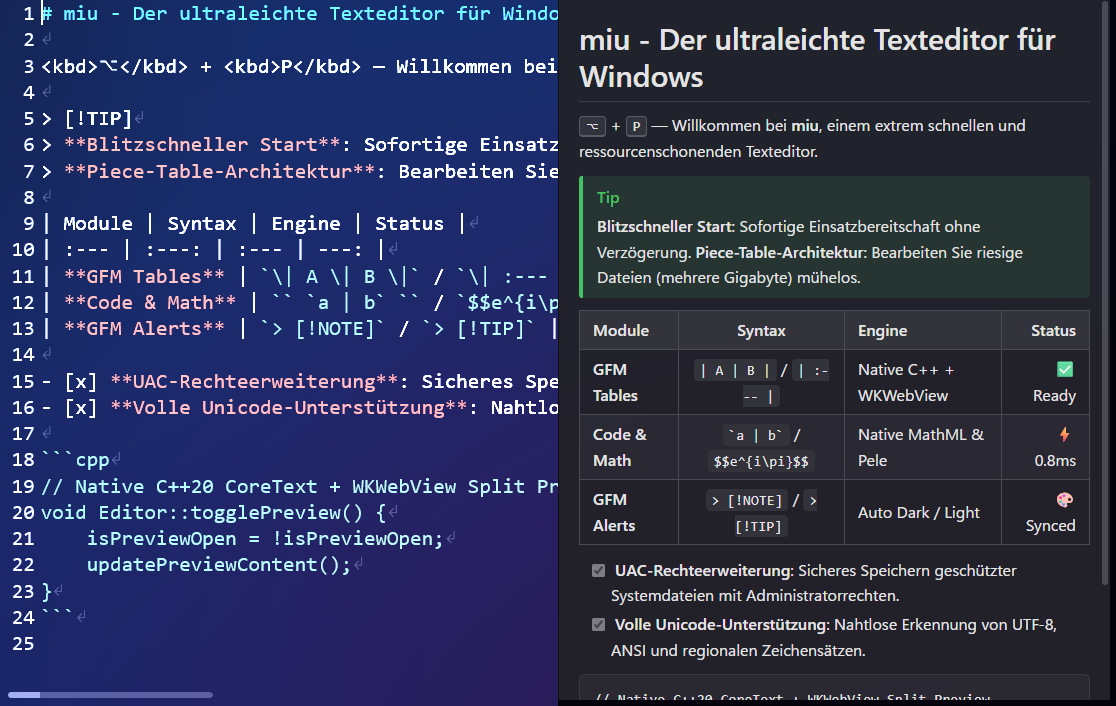
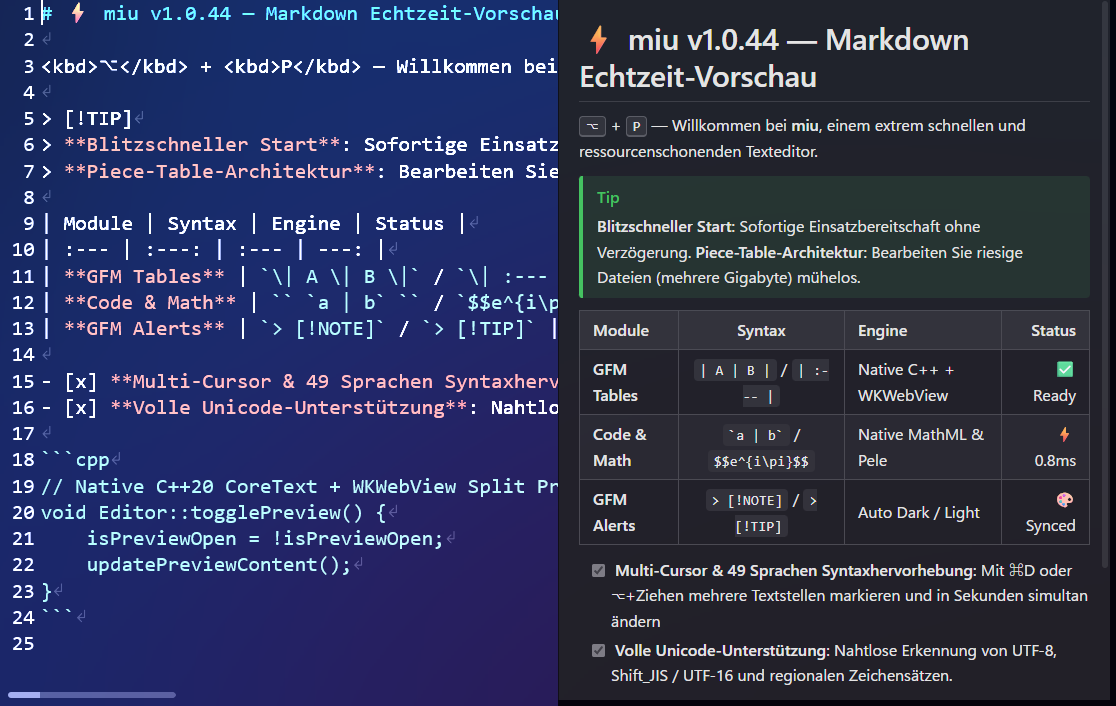
Fix blank Markdown preview assets across 13 locales and add iPhone Duo captures & operation guide

diff --git a/scripts/appstore_screenshots_sync.py b/scripts/appstore_screenshots_sync.py
@@ -463,9 +463,13 @@ def apply_frosted_glass_panel(panel_img, bg_crop, is_dark, has_right_preview=Fal
     bg_arr = np.asarray(acrylic_bg, dtype=np.float32)
 
     h, w, _ = arr.shape
-    sample_y = min(h - 1, max(0, h - 24 if not is_vertical_split else (h // 2 - 20)))
-    sample_x = min(w - 1, 180)
-    sample_bg = arr[sample_y, sample_x].copy()
+    ed_h = (h // 2) if (has_right_preview and is_vertical_split) else h
+    ed_w = (w // 2) if (has_right_preview and not is_vertical_split) else w
+    patch = arr[max(0, ed_h - 80):max(10, ed_h - 6), min(60, ed_w - 10):max(70, ed_w - 20)]
+    if patch.size > 0:
+        sample_bg = np.percentile(patch, 20 if is_dark else 80, axis=(0, 1)).astype(np.float32)
+    else:
+        sample_bg = arr[min(h - 1, ed_h - 10), min(w - 1, 180)].copy()
 
     glass_mask = np.ones((h, w, 1), dtype=np.float32)
     if has_right_preview:
@@ -654,34 +658,83 @@ def draw_ios_find_replace_bar(bar_w, ui_strings, font_bold_path, font_reg_path):
 
 
 def draw_ios_accessory_bar(bar_w, is_dark, ui_strings, font_bold_path, active_preview=False):
-    """Render the localized iOS quick-action toolbar from ViewController.mm."""
-    bar_h = 44
-    bg_col = (24, 28, 38, 250) if is_dark else (241, 245, 249, 250)
-    bar = Image.new("RGBA", (bar_w, bar_h), bg_col)
+    """Render the localized iOS/Android categorized floating pill toolbar (File | Edit | Find | View | Undo | Redo | Tab | Dismiss)."""
+    bar_h = 48
+    bar = Image.new("RGBA", (bar_w, bar_h), (0, 0, 0, 0))
     draw = ImageDraw.Draw(bar)
-    sep_col = (51, 65, 85, 255) if is_dark else (203, 213, 225, 255)
-    draw.line([(0, 0), (bar_w, 0)], fill=sep_col, width=1)
+
+    # Outer floating capsule container
+    pad_x = 12
+    pill_y1, pill_y2 = 4, bar_h - 4
+    pill_bg = (26, 31, 45, 244) if is_dark else (245, 247, 252, 246)
+    pill_bd = (71, 85, 105, 190) if is_dark else (203, 213, 225, 220)
+    draw.rounded_rectangle([pad_x, pill_y1, bar_w - pad_x, pill_y2], radius=20, fill=pill_bg, outline=pill_bd, width=1)
 
     f_btn = ImageFont.truetype(font_bold_path, 13)
-    keys = ["New", "Open", "Save", "Find", "Replace", "Live Preview", "Word Wrap", "Toggle Comment", "Tab", "Done"]
-    px = 10
-    for k in keys:
+    cat_keys = ["File", "Edit", "Find", "View"]
+    px = pad_x + 10
+    for k in cat_keys:
         lbl = ui_strings.get(k, k)
         bb = draw.textbbox((0, 0), lbl, font=f_btn)
-        bw = (bb[2] - bb[0]) + 20
-        if px + bw > bar_w - 8:
+        tw = bb[2] - bb[0]
+        bw = tw + 30
+        if px + bw > bar_w - pad_x - 126:
             break
-        is_hi = (k == "Live Preview" and active_preview)
+        is_hi = (k == "View" and active_preview)
         if is_hi:
-            btn_bg = (14, 165, 233, 55) if is_dark else (0, 122, 255, 28)
+            btn_bg = (14, 165, 233, 62) if is_dark else (0, 122, 255, 32)
             btn_fg = (56, 189, 248, 255) if is_dark else (0, 102, 225, 255)
-            draw.rounded_rectangle([px, 7, px + bw, bar_h - 7], radius=6, fill=btn_bg, outline=btn_fg, width=1)
+            draw.rounded_rectangle([px, 9, px + bw, bar_h - 9], radius=14, fill=btn_bg, outline=btn_fg, width=1)
         else:
-            btn_bg = (255, 255, 255, 22) if is_dark else (15, 23, 42, 12)
+            btn_bg = (255, 255, 255, 24) if is_dark else (15, 23, 42, 14)
             btn_fg = (226, 232, 240, 255) if is_dark else (30, 41, 59, 255)
-            draw.rounded_rectangle([px, 7, px + bw, bar_h - 7], radius=6, fill=btn_bg)
-        draw.text((px + 10, 13), lbl, font=f_btn, fill=btn_fg)
+            draw.rounded_rectangle([px, 9, px + bw, bar_h - 9], radius=14, fill=btn_bg)
+        draw.text((px + 10, 15), lbl, font=f_btn, fill=btn_fg)
+        # Vector downward chevron
+        cx = px + 10 + tw + 9
+        cy = bar_h // 2 + 1
+        draw.line([(cx - 3, cy - 2), (cx, cy + 2), (cx + 3, cy - 2)], fill=btn_fg, width=2)
         px += bw + 6
+
+    # Vertical divider before quick-action buttons
+    sep_col = (71, 85, 105, 180) if is_dark else (203, 213, 225, 210)
+    if px + 110 < bar_w - pad_x:
+        draw.line([(px + 2, 13), (px + 2, bar_h - 13)], fill=sep_col, width=1)
+        px += 10
+
+    # Vector Undo & Redo buttons + Tab pill
+    btn_bg = (255, 255, 255, 20) if is_dark else (15, 23, 42, 12)
+    btn_fg = (226, 232, 240, 255) if is_dark else (30, 41, 59, 255)
+    for is_redo in (False, True):
+        bw = 32
+        if px + bw > bar_w - pad_x - 42:
+            break
+        draw.rounded_rectangle([px, 9, px + bw, bar_h - 9], radius=14, fill=btn_bg)
+        cx = px + bw // 2
+        cy = bar_h // 2
+        draw.arc([cx - 6, cy - 5, cx + 6, cy + 7], start=200 if not is_redo else 250, end=70 if not is_redo else 340, fill=btn_fg, width=2)
+        if not is_redo:
+            draw.line([(cx - 6, cy - 2), (cx - 2, cy - 5)], fill=btn_fg, width=2)
+            draw.line([(cx - 6, cy - 2), (cx - 2, cy + 1)], fill=btn_fg, width=2)
+        else:
+            draw.line([(cx + 6, cy - 2), (cx + 2, cy - 5)], fill=btn_fg, width=2)
+            draw.line([(cx + 6, cy - 2), (cx + 2, cy + 1)], fill=btn_fg, width=2)
+        px += bw + 5
+
+    tab_lbl = ui_strings.get("Tab", "Tab")
+    bb = draw.textbbox((0, 0), tab_lbl, font=f_btn)
+    tw = bb[2] - bb[0]
+    bw = max(36, tw + 18)
+    if px + bw <= bar_w - pad_x - 42:
+        draw.rounded_rectangle([px, 9, px + bw, bar_h - 9], radius=14, fill=btn_bg)
+        draw.text((px + (bw - tw) // 2, 15), tab_lbl, font=f_btn, fill=btn_fg)
+
+    # Right-pinned keyboard dismiss button
+    kb_x = bar_w - pad_x - 38
+    kb_bg = (255, 255, 255, 24) if is_dark else (15, 23, 42, 14)
+    kb_fg = (180, 194, 214, 255) if is_dark else (71, 85, 105, 255)
+    draw.rounded_rectangle([kb_x, 9, kb_x + 30, bar_h - 9], radius=14, fill=kb_bg)
+    draw.line([(kb_x + 10, 21), (kb_x + 15, 26), (kb_x + 20, 21)], fill=kb_fg, width=2)
 
     return bar
 
@@ -1248,6 +1301,224 @@ def render_ipad_slide(spec, font_bold_path, font_reg_path, target_size=(2732, 20
 
 
 # ============================================================================
+# Compositor 4: iPhone Duo Unfolded Dual-Screen Book Mode (APP_IPHONE_DUO)
+# ============================================================================
+
+IPHONE_DUO_BG_CACHE = {}
+
+def draw_ios_category_popup_menu(ui_strings, is_dark, font_bold_path, font_reg_path):
+    """Render an authentic iOS UIMenu popup above the 'View' category pill."""
+    mw, mh = 224, 184
+    menu = Image.new("RGBA", (mw, mh), (0, 0, 0, 0))
+    draw = ImageDraw.Draw(menu)
+
+    bg_col = (34, 41, 58, 246) if is_dark else (250, 252, 255, 248)
+    bd_col = (100, 116, 139, 180) if is_dark else (203, 213, 225, 220)
+    draw.rounded_rectangle([0, 0, mw - 1, mh - 1], radius=14, fill=bg_col, outline=bd_col, width=1)
+
+    f_item = ImageFont.truetype(font_reg_path, 12)
+    f_bold = ImageFont.truetype(font_bold_path, 12)
+    fg_col = (241, 245, 249, 255) if is_dark else (15, 23, 42, 255)
+    acc_col = (56, 189, 248, 255) if is_dark else (0, 122, 255, 255)
+    sep_col = (71, 85, 105, 140) if is_dark else (226, 232, 240, 220)
+
+    items = [
+        (ui_strings.get("Live Preview", "Live Preview"), True, "Opt+P"),
+        (ui_strings.get("Word Wrap", "Word Wrap"), True, "Opt+Z"),
+        (ui_strings.get("Show Line Numbers", "Line Numbers"), True, "#123"),
+        (ui_strings.get("Status Bar", "Status Bar"), True, "Ln/Col"),
+        (ui_strings.get("Zoom In", "Zoom In") + " / " + ui_strings.get("Zoom Out", "Zoom Out"), False, "A+ / A-"),
+    ]
+    ry = 8
+    for idx, (label, checked, icon_str) in enumerate(items):
+        short_lbl = label if len(label) <= 20 else label[:18] + "…"
+        col = acc_col if idx == 0 else fg_col
+        if checked:
+            draw.line([(12, ry + 14), (16, ry + 18), (22, ry + 10)], fill=acc_col, width=2)
+        draw.text((30, ry + 6), short_lbl, font=f_bold if idx == 0 else f_item, fill=col)
+        ib = draw.textbbox((0, 0), icon_str, font=f_item)
+        draw.text((mw - 12 - (ib[2] - ib[0]), ry + 6), icon_str, font=f_item, fill=(148, 163, 184, 230) if idx > 0 else acc_col)
+        ry += 34
+        if idx < len(items) - 1:
+            draw.line([(12, ry - 2), (mw - 12, ry - 2)], fill=sep_col, width=1)
+    return menu
+
+
+def render_iphone_duo_slide(spec, font_bold_path, font_reg_path, target_size=(2796, 1864)):
+    """Render an iPhone Duo unfolded dual-screen book-posture screenshot with 50:50 center-hinge split."""
+    W, H = 1398, 932
+    pal_key = (id(spec["palette"]), W, H)
+    if pal_key not in IPHONE_DUO_BG_CACHE:
+        IPHONE_DUO_BG_CACHE[pal_key] = make_mesh_background(W, H, spec["palette"])
+    bg = IPHONE_DUO_BG_CACHE[pal_key]
+    is_dark = spec["is_dark"]
+
+    canvas = bg.convert("RGBA")
+    cdraw = ImageDraw.Draw(canvas)
+
+    # Top marketing header
+    f_badge = ImageFont.truetype(font_bold_path, 14)
+    badge_txt = "iPhone Duo  ·  " + spec["badge"]
+    bb = cdraw.textbbox((0, 0), badge_txt, font=f_badge)
+    bw = (bb[2] - bb[0]) + 32
+    bh = 32
+    bx = (W - bw) // 2
+    ty = 22
+    if is_dark:
+        cdraw.rounded_rectangle([bx, ty, bx + bw, ty + bh], radius=16, fill=(56, 189, 248, 45), outline=(56, 189, 248, 165), width=2)
+        cdraw.text((bx + 16, ty + 6), badge_txt, font=f_badge, fill=(125, 211, 252, 255))
+    else:
+        cdraw.rounded_rectangle([bx, ty, bx + bw, ty + bh], radius=16, fill=(255, 255, 255, 185), outline=(29, 78, 216, 130), width=2)
+        cdraw.text((bx + 16, ty + 6), badge_txt, font=f_badge, fill=(23, 58, 148, 255))
+
+    is_cjk = any(ord(ch) > 0x2E80 for line in spec["title"] for ch in line)
+    sep = "" if is_cjk else " "
+    full_title = sep.join(spec["title"])
+    max_tw = W - 120
+    title_sz = 38
+    while title_sz > 22:
+        f_title = ImageFont.truetype(font_bold_path, title_sz)
+        tb = cdraw.textbbox((0, 0), full_title, font=f_title)
+        if (tb[2] - tb[0]) <= max_tw:
+            break
+        title_sz -= 2
+
+    ty += 42
+    title_col = (255, 255, 255, 255) if is_dark else (18, 42, 92, 255)
+    tb = cdraw.textbbox((0, 0), full_title, font=f_title)
+    cdraw.text(((W - (tb[2] - tb[0])) // 2, ty), full_title, font=f_title, fill=title_col)
+
+    ty += int(title_sz * 1.34)
+    sub_col = (203, 213, 225, 245) if is_dark else (45, 72, 122, 240)
+    f_sub = ImageFont.truetype(font_reg_path, 16)
+    for sline in spec["sub"]:
+        sb = cdraw.textbbox((0, 0), sline, font=f_sub)
+        cdraw.text(((W - (sb[2] - sb[0])) // 2, ty), sline, font=f_sub, fill=sub_col)
+        ty += 24
+
+    # iPhone Duo Unfolded Dual-Screen Chassis Geometry
+    dev_w, dev_h = 1172, 704
+    bezel = 14
+    hinge_w = 16
+    scr_w, scr_h = dev_w - bezel * 2, dev_h - bezel * 2  # 1144 x 676
+    pane_w = (scr_w - hinge_w) // 2                      # 564px per screen
+    dx = (W - dev_w) // 2
+    dy = 196
+
+    # Drop shadow under both halves of the unfolded device
+    shadow = Image.new("RGBA", (W, H), (0, 0, 0, 0))
+    ImageDraw.Draw(shadow).rounded_rectangle(
+        [dx - 8, dy + 14, dx + dev_w + 8, dy + dev_h + 24],
+        radius=42,
+        fill=(4, 8, 22, 155 if is_dark else 90),
+    )
+    shadow = shadow.filter(ImageFilter.GaussianBlur(radius=24))
+    canvas = Image.alpha_composite(canvas, shadow)
+    cdraw = ImageDraw.Draw(canvas)
+
+    # Left & Right Titanium book-mode chassis halves + center hinge spine
+    half_dev_w = (dev_w - 4) // 2
+    cdraw.rounded_rectangle(
+        [dx, dy, dx + half_dev_w + 10, dy + dev_h - 1],
+        radius=38,
+        fill=(28, 33, 46, 255),
+        outline=(148, 163, 184, 155),
+        width=3,
+    )
+    cdraw.rounded_rectangle(
+        [dx + dev_w - half_dev_w - 10, dy, dx + dev_w - 1, dy + dev_h - 1],
+        radius=38,
+        fill=(28, 33, 46, 255),
+        outline=(148, 163, 184, 155),
+        width=3,
+    )
+    # Center mechanical hinge caps (top & bottom)
+    hx_center = dx + dev_w // 2
+    cdraw.rounded_rectangle([hx_center - 10, dy - 2, hx_center + 10, dy + 16], radius=4, fill=(71, 85, 105, 255), outline=(148, 163, 184, 180), width=1)
+    cdraw.rounded_rectangle([hx_center - 10, dy + dev_h - 16, hx_center + 10, dy + dev_h + 2], radius=4, fill=(71, 85, 105, 255), outline=(148, 163, 184, 180), width=1)
+
+    screen = Image.new("RGBA", (scr_w, scr_h), (16, 20, 34, 255) if is_dark else (248, 251, 255, 255))
+    sdraw = ImageDraw.Draw(screen)
+
+    # Top status + document bar across dual screens (40px)
+    hdr_h = 40
+    hdr_col = (18, 23, 38, 255) if is_dark else (241, 245, 251, 255)
+    sdraw.rectangle([0, 0, scr_w, hdr_h], fill=hdr_col)
+
+    # Compact Dynamic Island on left display top center
+    di_w, di_h = 96, 22
+    di_x = (pane_w - di_w) // 2
+    sdraw.rounded_rectangle([di_x, 7, di_x + di_w, 7 + di_h], radius=11, fill=(8, 10, 16, 255))
+
+    f_stat = ImageFont.truetype(font_bold_path, 13)
+    fg_stat = (226, 232, 240, 255) if is_dark else (30, 41, 59, 255)
+    sdraw.text((22, 11), "9:41  iPhone Duo", font=f_stat, fill=fg_stat)
+    # Right display status header: document title + 50:50 split badge + battery
+    right_x0 = pane_w + hinge_w
+    sdraw.text((right_x0 + 18, 11), spec["doc_title"], font=f_stat, fill=fg_stat)
+    bx_stat = scr_w - 52
+    sdraw.rounded_rectangle([bx_stat, 13, bx_stat + 24, 25], radius=3, outline=fg_stat, width=2)
+    sdraw.rectangle([bx_stat + 3, 16, bx_stat + 19, 22], fill=fg_stat)
+
+    foot_h = 52
+    body_h = scr_h - hdr_h - foot_h  # 584px
+
+    panel_raw = Image.open(spec["panel_path"]).convert("RGB")
+    panel_raw = panel_raw.crop((0, 0, panel_raw.width, panel_raw.height - 16))
+    panel_resized = panel_raw.resize((scr_w, body_h), Image.Resampling.LANCZOS)
+    bg_crop = bg.crop((dx + bezel, dy + bezel + hdr_h, dx + bezel + scr_w, dy + bezel + hdr_h + body_h))
+    frosted_body = apply_frosted_glass_panel(panel_resized, bg_crop, is_dark, spec["has_preview"], is_vertical_split=False)
+    screen.paste(frosted_body.convert("RGBA"), (0, hdr_h))
+
+    if spec["overlay"] == "regex":
+        find_bar = draw_ios_find_replace_bar(pane_w, spec["ui_strings"], font_bold_path, font_reg_path)
+        screen.alpha_composite(find_bar, (right_x0, hdr_h + body_h - find_bar.height))
+
+    # Draw Categorized Floating Pill Toolbar on the Left Screen (Editor pane)
+    acc_bar = draw_ios_accessory_bar(pane_w, is_dark, spec["ui_strings"], font_bold_path, active_preview=spec["has_preview"])
+    screen.alpha_composite(acc_bar, (0, hdr_h + body_h))
+
+    # On Slide 1 (Markdown Live Preview), also showcase the View UIMenu popup above the pill toolbar
+    if spec["idx"] == 1:
+        popup = draw_ios_category_popup_menu(spec["ui_strings"], is_dark, font_bold_path, font_reg_path)
+        screen.alpha_composite(popup, (152, hdr_h + body_h - popup.height - 4))
+
+    # Right screen bottom status / home indicator bar
+    sdraw.rectangle([right_x0, hdr_h + body_h, scr_w, scr_h], fill=hdr_col)
+    f_status = ImageFont.truetype(font_reg_path, 12)
+    st_col = (148, 163, 184, 235) if is_dark else (71, 85, 105, 220)
+    status_txt = spec.get("status_right", "Ln 1, Col 1    UTF-8    LF    100%")
+    sdraw.text((right_x0 + 20, hdr_h + body_h + 10), status_txt, font=f_status, fill=st_col)
+
+    # Home indicators on both left and right screens
+    hi_col = (203, 213, 225, 190) if is_dark else (71, 85, 105, 175)
+    sdraw.rounded_rectangle([(pane_w - 130) // 2, scr_h - 6, (pane_w + 130) // 2, scr_h - 2], radius=2, fill=hi_col)
+    sdraw.rounded_rectangle([right_x0 + (pane_w - 130) // 2, scr_h - 6, right_x0 + (pane_w + 130) // 2, scr_h - 2], radius=2, fill=hi_col)
+
+    # Draw the Center Hinge Fold Seam & MiuIOSPreviewSplitterView (50:50 snapped)
+    hx1, hx2 = pane_w, pane_w + hinge_w
+    sdraw.rectangle([hx1, 0, hx2, scr_h], fill=(10, 13, 22, 255))
+    sdraw.line([(hx1, 0), (hx1, scr_h)], fill=(71, 85, 105, 180), width=1)
+    sdraw.line([(hx2, 0), (hx2, scr_h)], fill=(71, 85, 105, 180), width=1)
+    # Center splitter grabber pill (MiuIOSPreviewSplitterView)
+    sp_cy = hdr_h + body_h // 2
+    sdraw.rounded_rectangle([hx1 + 5, sp_cy - 28, hx2 - 5, sp_cy + 28], radius=3, fill=(56, 189, 248, 210) if spec["has_preview"] else (148, 163, 184, 180))
+
+    scr_mask = Image.new("L", (scr_w, scr_h), 0)
+    mdraw = ImageDraw.Draw(scr_mask)
+    mdraw.rounded_rectangle([0, 0, pane_w - 1, scr_h - 1], radius=26, fill=255)
+    mdraw.rounded_rectangle([right_x0, 0, scr_w - 1, scr_h - 1], radius=26, fill=255)
+    mdraw.rectangle([pane_w - 6, 14, right_x0 + 6, scr_h - 14], fill=255)
+    screen.putalpha(scr_mask)
+    canvas.alpha_composite(screen, (dx + bezel, dy + bezel))
+
+    out_rgb = canvas.convert("RGB")
+    if out_rgb.size != target_size:
+        out_rgb = out_rgb.resize(target_size, Image.Resampling.LANCZOS)
+    return out_rgb
+
+
+# ============================================================================
 # Batch Renderer for All Needed Display Types & Prefixes
 # ============================================================================
 
@@ -1255,6 +1526,7 @@ DISPLAY_TYPE_RENDERERS = {
     "APP_DESKTOP": lambda spec, fb, fr: render_macos_slide(spec, fb, fr),
     "APP_IPHONE_67": lambda spec, fb, fr: render_iphone_slide(spec, fb, fr, (1290, 2796)),
     "APP_IPHONE_65": lambda spec, fb, fr: render_iphone_slide(spec, fb, fr, (1284, 2778)),
+    "APP_IPHONE_DUO": lambda spec, fb, fr: render_iphone_duo_slide(spec, fb, fr, (2796, 1864)),
     "APP_IPAD_PRO_3GEN_129": lambda spec, fb, fr: render_ipad_slide(spec, fb, fr, (2732, 2048)),
     "APP_IPAD_PRO_129": lambda spec, fb, fr: render_ipad_slide(spec, fb, fr, (2732, 2048)),
 }
@@ -1270,9 +1542,8 @@ def render_prefix_display_type(prefix, display_type, out_dir):
     for spec in specs:
         fname = f"miu_{prefix}_{display_type}_{spec['idx']}.png"
         fpath = os.path.join(out_dir, fname)
-        if not os.path.exists(fpath):
-            img = renderer(spec, fb, fr)
-            img.save(fpath, "PNG", optimize=False)
+        img = renderer(spec, fb, fr)
+        img.save(fpath, "PNG", optimize=False)
         paths.append(fpath)
     return paths
 
@@ -1558,7 +1829,7 @@ def main():
     if args.local_test:
         print(f"=== Local Test Mode: Rendering ja & en into {args.out_dir} ===")
         for prefix in ("ja", "en"):
-            for dt in ("APP_DESKTOP", "APP_IPHONE_67", "APP_IPAD_PRO_3GEN_129"):
+            for dt in ("APP_DESKTOP", "APP_IPHONE_67", "APP_IPHONE_DUO", "APP_IPAD_PRO_3GEN_129"):
                 t0 = time.time()
                 paths = render_prefix_display_type(prefix, dt, args.out_dir)
                 print(f"  [OK] {prefix} / {dt}: {len(paths)} files in {time.time() - t0:.2f}s")

diff --git a/scripts/store_screenshots.py b/scripts/store_screenshots.py
@@ -126,7 +126,7 @@ def build(args):
                     'Existing source pixels retained; synthetic outer titlebar, not a new macOS capture.',
                     'Mermaid/Math use English document samples outside ja/en/zh/ko.',
                     'Regex/Multi-cursor use English document samples outside ja/en.',
-                    'Markdown uses English except ja: other old sources have blank previews or Windows-only copy.',
+                    'Markdown uses localized md_<prefix>.png assets with verified live preview rendering across all 28 languages.',
                     'Region variants share their declared language deck; no implicit locale fallback.',
                     'Low resolution source assets are proportionally resampled, not detail-enhanced.'
                 ]}
